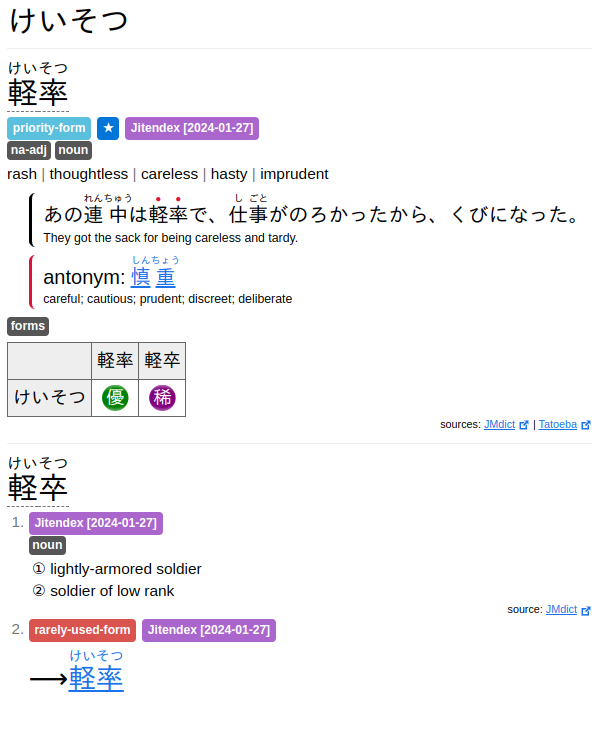
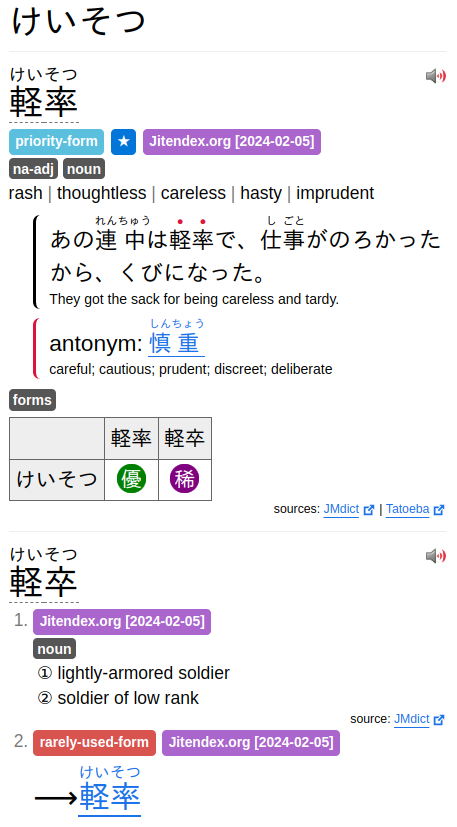
Update けいそつ images

diff --git a/docs/pages/about.html b/docs/pages/about.html
@@ -219,19 +219,22 @@ for more app formats, more ambitious goals, and more design improvements.</p>
 <p>Compare the search results for けいそつ from Jitendex and
 my previous version of JMdict for Yomichan.</p>
 <table>
-<thead>
-<tr>
-<th style="text-align: center;">Jitendex (viewed in Yomitan)</th>
-<th style="text-align: center;">stephenmk's "JMdict Extra"</th>
-</tr>
-</thead>
-<tbody>
-<tr>
-<td style="text-align: center;"><img alt="Screenshot of the Jitendex entries for けいそつ in Yomitan" src="/images/keisotsu_jitendex.webp"></td>
-<td style="text-align: center;"><img alt="Screenshot of the 'JMDict Extra' entries for けいそつ in Yomitan" src="/images/keisotsu_jmdict.webp"></td>
-</tr>
-</tbody>
+  <tr>
+    <th style="width: 50%;">Jitendex (viewed in Yomitan)</th>
+    <th>stephenmk's "JMdict Extra"</th>
+  </tr>
+  <tr>
+    <td>
+      <img alt="Screenshot of the Jitendex entries for けいそつ in Yomitan"
+           src="/images/keisotsu_jitendex.webp" />
+    </td>
+    <td>
+      <img alt="Screenshot of the 'JMDict Extra' entries for けいそつ in Yomitan"
+           src="/images/keisotsu_jmdict.webp" />
+    </td>
+  </tr>
 </table>
+
 <p>In Jitendex, you can clearly tell that the 軽卒 form (the bottom
 search result) is found in two different entries. In the first
 entry it refers to a type of soldier, and in the second entry it is
